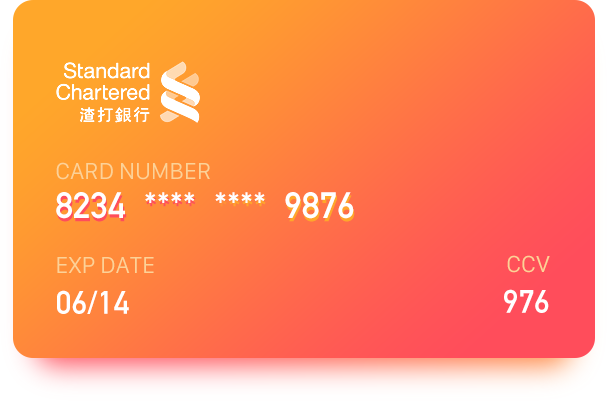
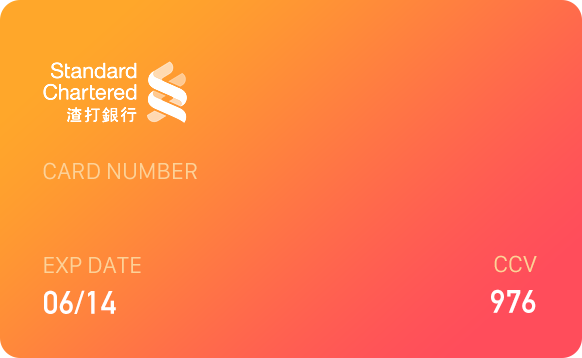
yyl

diff --git a/takeOut/yyl_passpay.html b/takeOut/yyl_passpay.html
@@ -38,9 +38,9 @@
         <!--中间部分-->
         <div class="yyl_box">
             <!--图片-->
-            <div class="beij">
-                <img src="images/yyl_ccv.png" alt="">
-            </div>
+            <div class="beij"></div>
+            <img src="images/yyl_ccv.png" alt="">
+            <span>8234  ****  ****  9876</span>
         </div>
         <div class="cen_box">
             <img src="images/yyl_zhiwen.png" alt="">

diff --git a/takeOut/yyl_zhiwenpay.html b/takeOut/yyl_zhiwenpay.html
@@ -39,8 +39,11 @@
         <!--中间部分-->
         <div class="yyl_box">
             <!--图片-->
-            <div class="beij">
+            <div class="yyl_box">
+            <!--图片-->
+                <div class="beij"></div>
                 <img src="images/yyl_ccv.png" alt="">
+                <span>8234  ****  ****  9876</span>
             </div>
             <!--图片-->
         </div>

diff --git a/takeOut/css/yyl_css/passpay.css b/takeOut/css/yyl_css/passpay.css
@@ -11,10 +11,17 @@ body{
     width:100%;
     background: #E60033;
 }
-.yyl_box .beij img{
+.yyl_box  img{
     height:3.64rem;
     width:5.84rem;
-    margin-top:1.06rem;
+    margin-top:-1.06rem;
+}
+.yyl_box span{
+    display: block;
+    font-size: 8px;
+    margin-top:-1.65rem;
+    margin-left:-2.8rem;
+    color:#FFF;
 }
 .cen_box{
     width:100%;

diff --git a/takeOut/css/yyl_css/zhiwenpay.css b/takeOut/css/yyl_css/zhiwenpay.css
@@ -11,10 +11,17 @@ body{
     width:100%;
     background: #E60033;
 }
-.yyl_box .beij img{
+.yyl_box  img{
     height:3.64rem;
     width:5.84rem;
-    margin-top:1.06rem;
+    margin-top:-1.06rem;
+}
+.yyl_box span{
+    display: block;
+    font-size: 8px;
+    margin-top:-1.65rem;
+    margin-left:-2.8rem;
+    color:#FFF;
 }
 .cen_box{
     width:100%;
